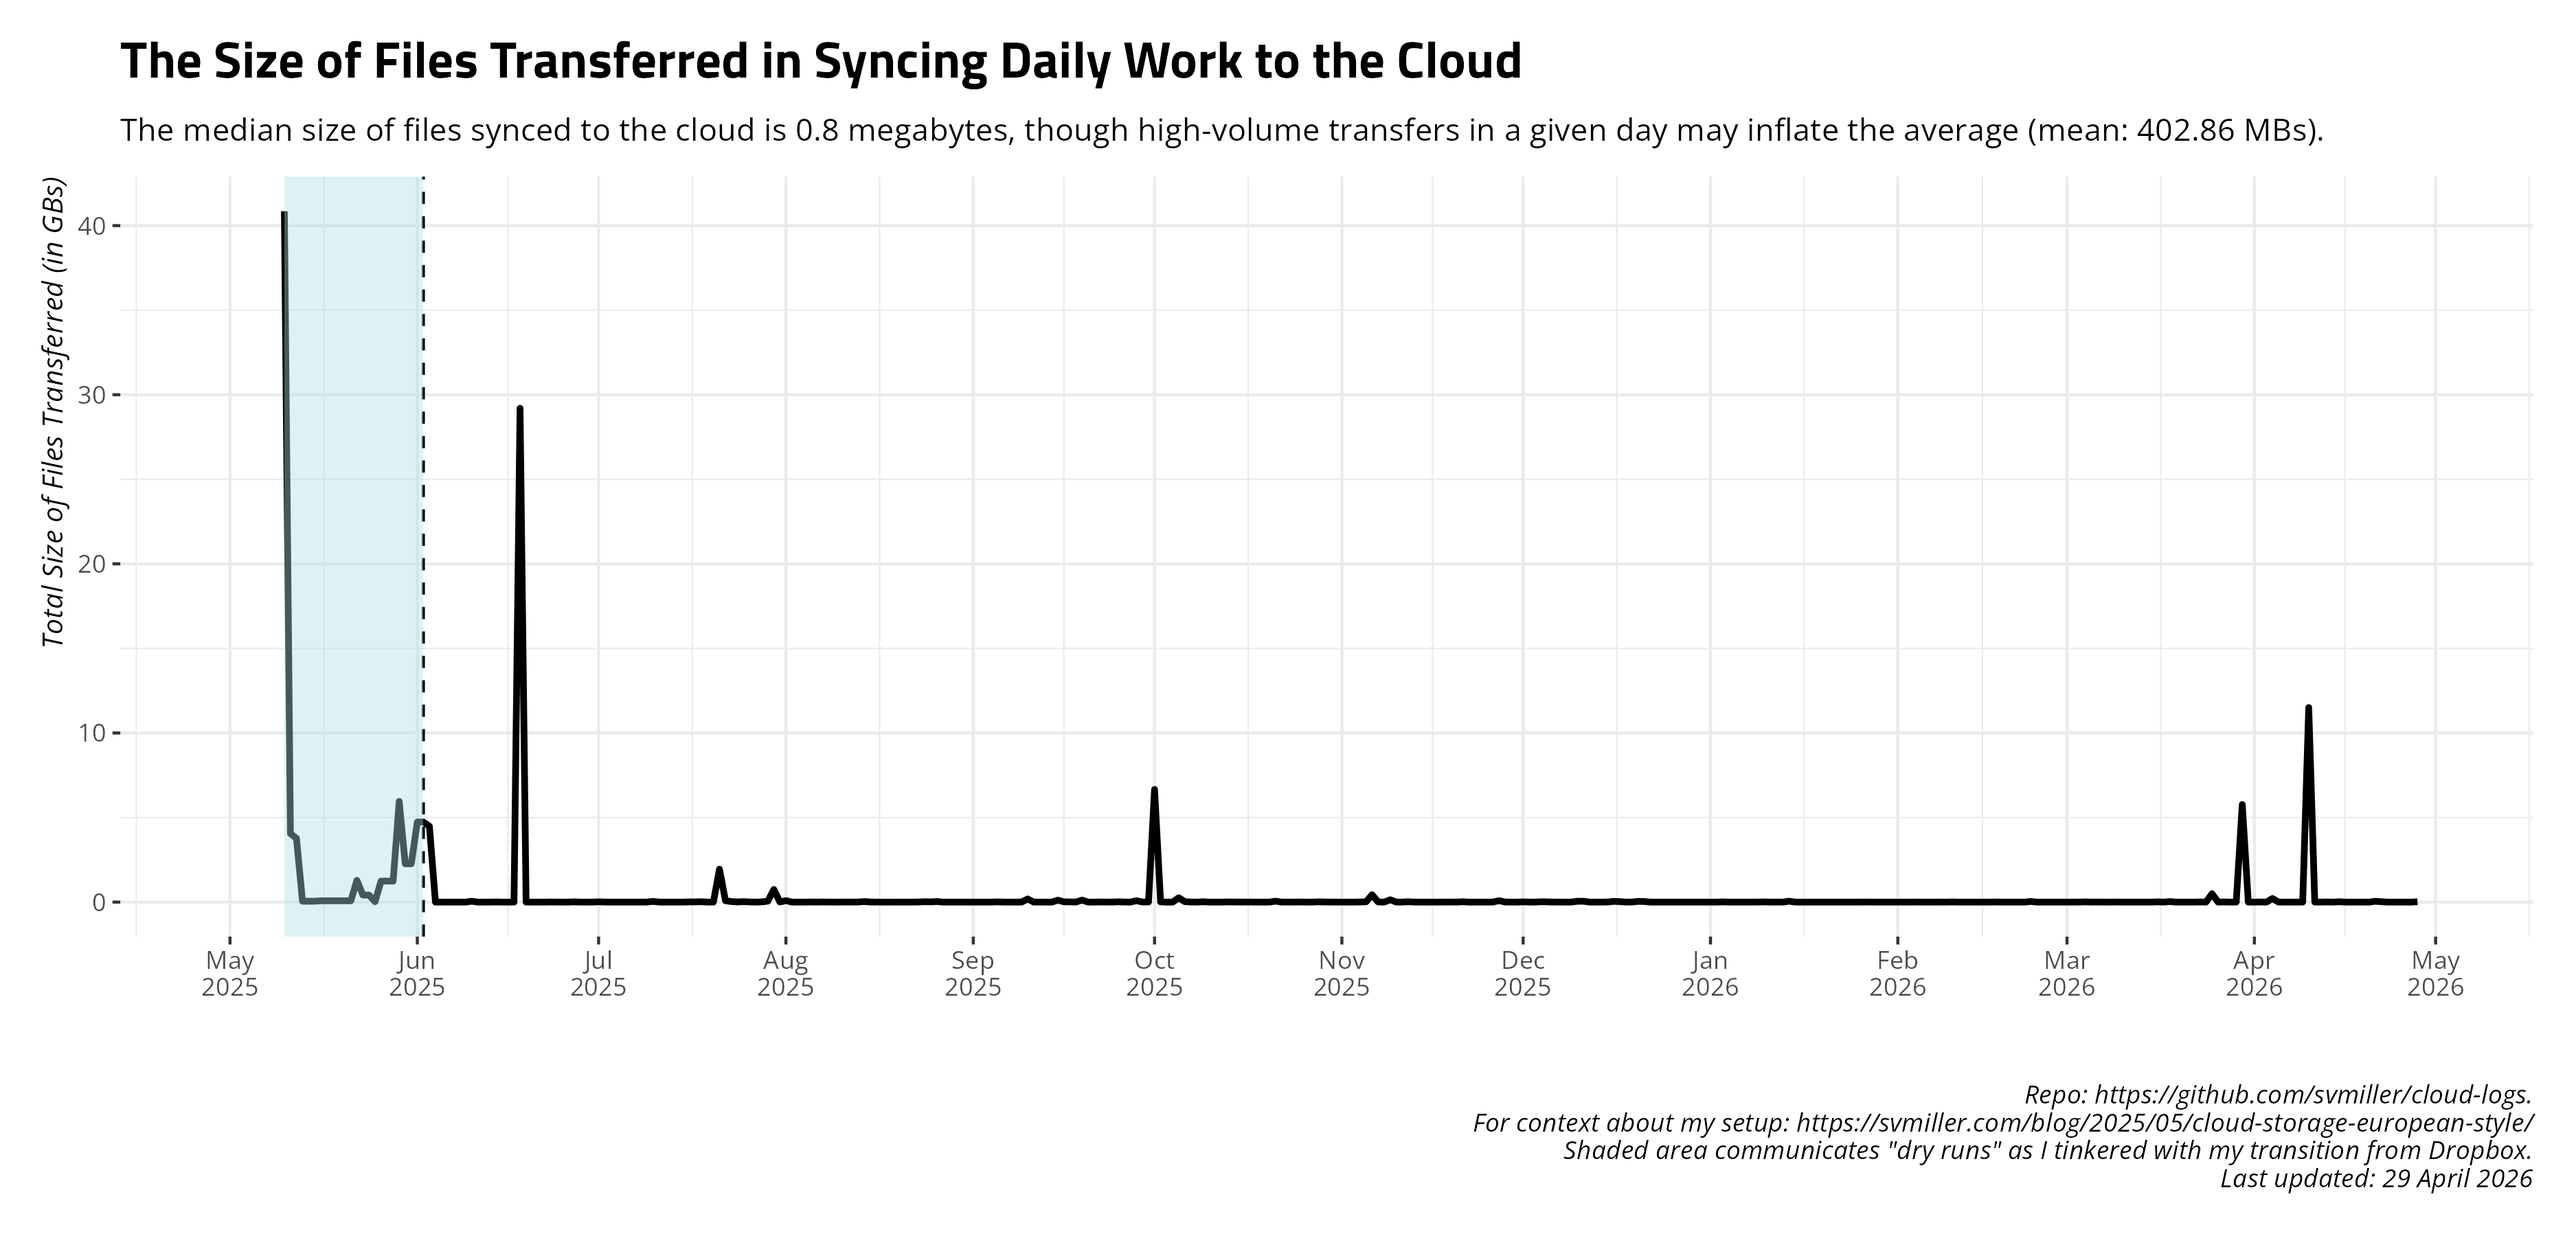
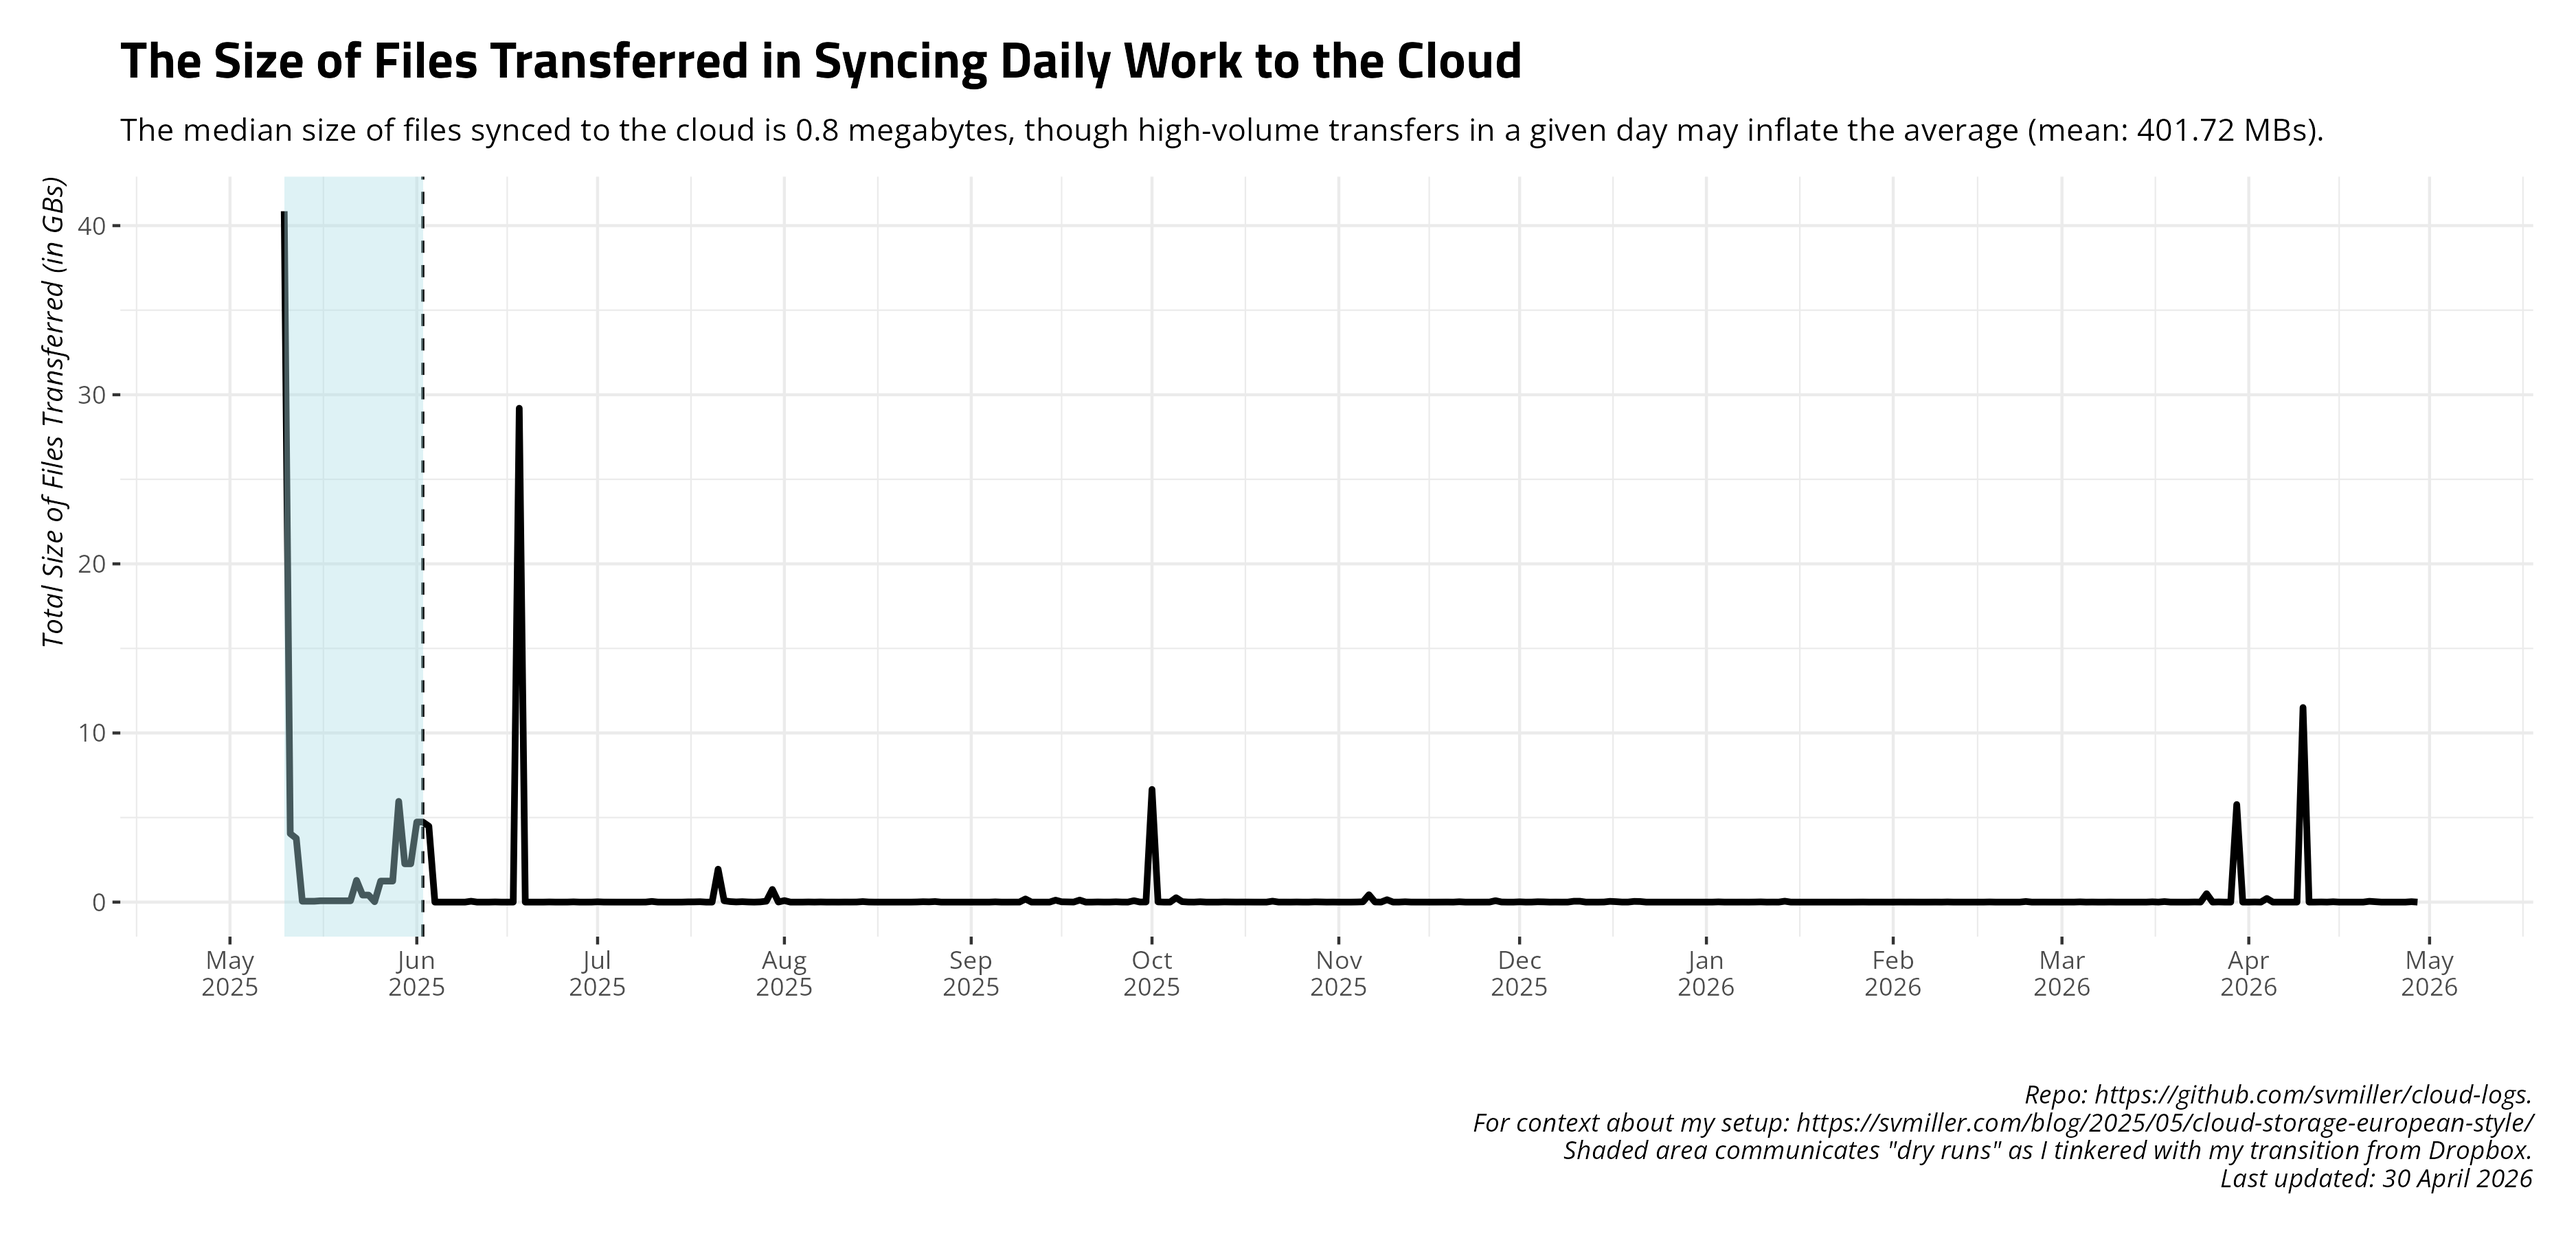
Date: 2026-04-30 09:00:28. Hi mom!

diff --git a/README.md b/README.md
@@ -27,17 +27,17 @@ and uploads to Github.
     #> # A tibble: 14 × 4
     #>    date       ftransfer stransfer   elapsed
     #>    <date>         <dbl> <chr>       <chr>  
-    #>  1 2026-04-15        62 19.695 MiB  4m46.0s
-    #>  2 2026-04-16         0 <NA>        5m9.8s 
-    #>  3 2026-04-17        89 369.474 KiB 5m33.8s
-    #>  4 2026-04-18         0 <NA>        5m13.0s
-    #>  5 2026-04-19         0 <NA>        5m11.6s
-    #>  6 2026-04-20        37 447.805 KiB 5m28.2s
-    #>  7 2026-04-21        37 48.112 MiB  5m16.4s
-    #>  8 2026-04-22         2 23.825 MiB  5m17.3s
-    #>  9 2026-04-23         0 <NA>        5m13.8s
-    #> 10 2026-04-24        63 494.966 KiB 4m27.8s
-    #> 11 2026-04-25         0 <NA>        5m15.6s
-    #> 12 2026-04-26         0 <NA>        5m13.9s
-    #> 13 2026-04-27         0 <NA>        4m22.7s
-    #> 14 2026-04-28       100 24.243 MiB  5m28.1s
+    #>  1 2026-04-16         0 <NA>        5m9.8s 
+    #>  2 2026-04-17        89 369.474 KiB 5m33.8s
+    #>  3 2026-04-18         0 <NA>        5m13.0s
+    #>  4 2026-04-19         0 <NA>        5m11.6s
+    #>  5 2026-04-20        37 447.805 KiB 5m28.2s
+    #>  6 2026-04-21        37 48.112 MiB  5m16.4s
+    #>  7 2026-04-22         2 23.825 MiB  5m17.3s
+    #>  8 2026-04-23         0 <NA>        5m13.8s
+    #>  9 2026-04-24        63 494.966 KiB 4m27.8s
+    #> 10 2026-04-25         0 <NA>        5m15.6s
+    #> 11 2026-04-26         0 <NA>        5m13.9s
+    #> 12 2026-04-27         0 <NA>        4m22.7s
+    #> 13 2026-04-28       100 24.243 MiB  5m28.1s
+    #> 14 2026-04-29        11 127.409 KiB 5m17.3s
